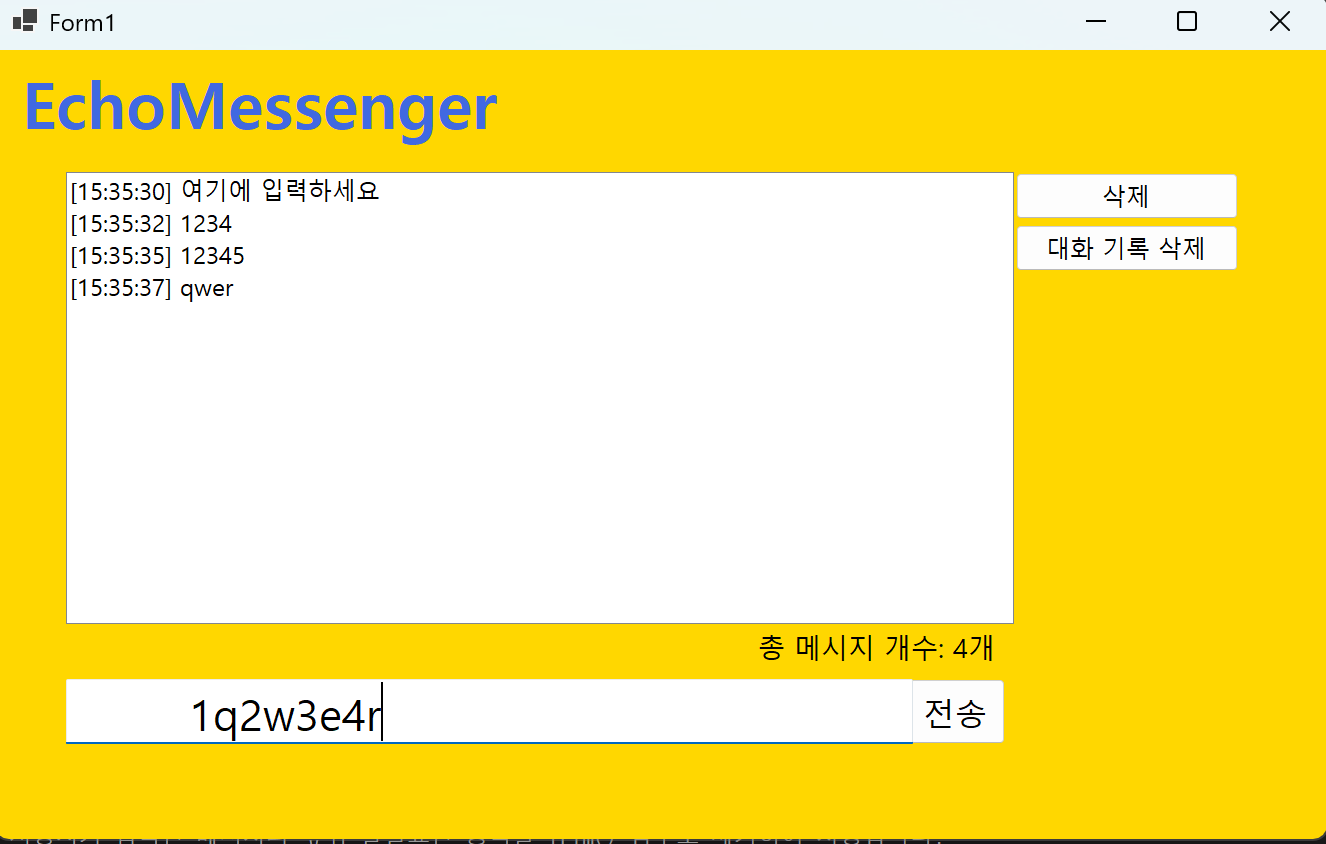
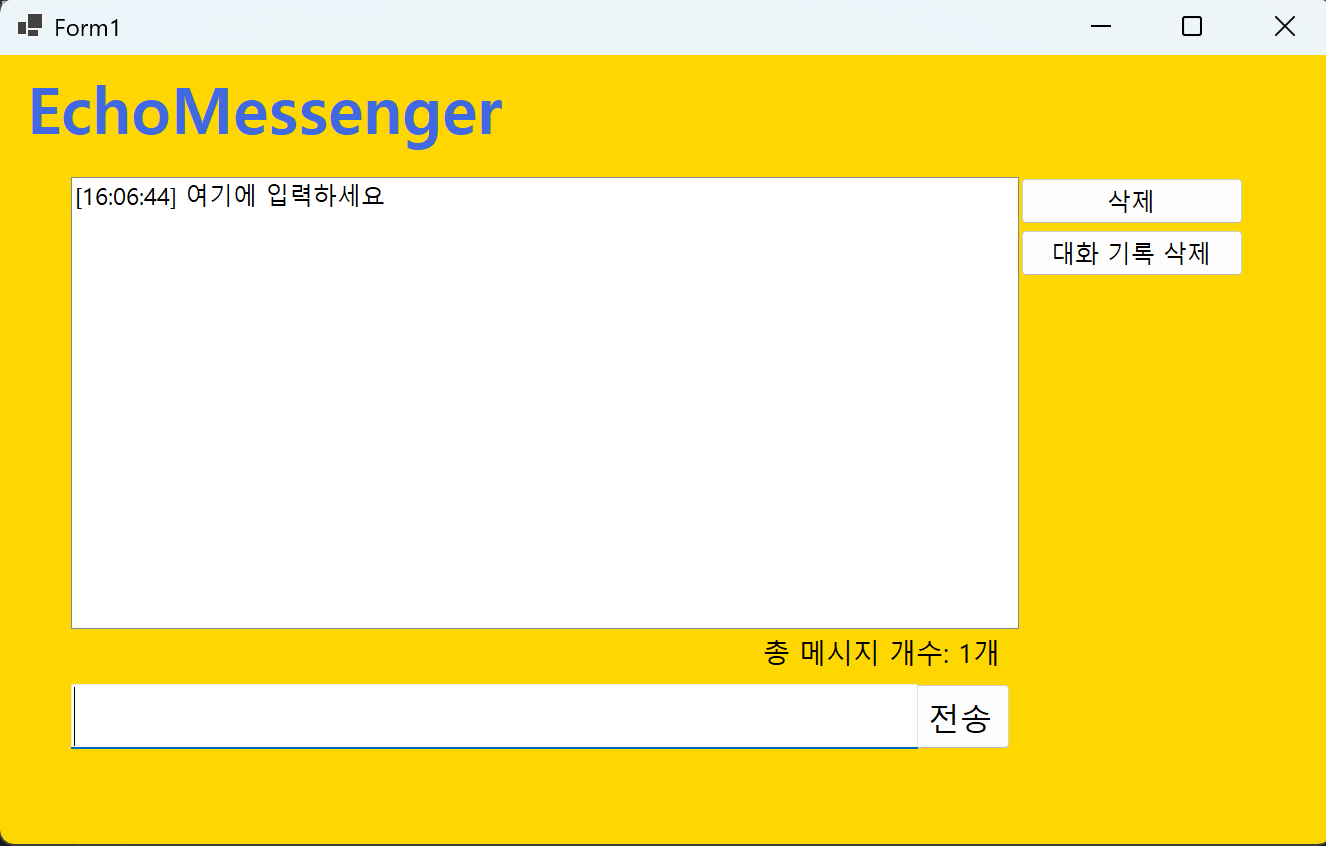
README 과제 4 작성

Changed region(s): [[0.0, 0.0, 1.0, 0.8934], [0.0, 0.9858, 1.0, 1.0]]

diff --git a/README.md b/README.md
@@ -13,7 +13,10 @@
 ## 실행 화면 (과제1)
 -과제 1 코드의 실행 스크린샷 
 
-![과제 1 실행화면](img/EM_1.png)
+![과제 1 실행화면](img/EM_1-1.png)
+![과제 1 실행화면](img/EM_1-2.png)
+![과제 1 실행화면](img/EM_1-3.png)
+![과제 1 실행화면](img/EM_1-4.png)
 
 -과제 내용
  -Label(표시), TextBox(입력), Button(전송), ListBox(대화창)를적절히배치합니다.
@@ -21,9 +24,10 @@
  -추가직후TextBox의내용을비워(Clear) 다음입력을준비합니다.
 
 -구현 기능과 내용 설명
--입력창에메시지입력하고전송버튼을누르면메시지가리스트박스에표시된다.
--계속반복하면메시지가리스트박스에한줄씩계속추가된다.
--추가내용이많아지면리스트박스에스크롤바가자동으로생기고스크롤된다
+-입력창에 메시지를 입력하고 전송버튼을 누르면 메시지가 리스트박스에 표시된다.
+-계속 반복하면 메시지가 리스트 박스에 한줄씩 계속 추가된다.
+-추가 내용이 많아지면 리스트 박스에 스크롤바가 자동으로 생기고 스크롤된다
+-메시지 입력 후 입력창이 자동으로 비워지고 다음 메시지를 입력할 수 있도록 준비된다.
 
 ## 실행 화면 (과제2)
 -과제 2 코드의 실행 스크린샷 
@@ -41,7 +45,7 @@
 -구현 기능과 내용 설명
  -입력 후에 입력창에 마우스 커서가 자동으로 위치하여 다음 메시지를 바로 입력할 수 있다.
  -키보드의 Enter 키를 눌러도 메시지가 전송된다.
- -공백을 입력하면 메시지가 전송되지 않고 입력창이 초기화된다.
+ -공백을 입력하거나 아무것도 입력하지 않고 전송하려고 하면 메시지가 전송되지 않고 입력창이 초기화된다.
 
 
 
@@ -50,6 +54,8 @@
 
 ![과제 3 실행화면](img/EM_3-1.png)
 ![과제 3 실행화면](img/EM_3-2.png)
+![과제 3 실행화면](img/EM_3-3.png)
+![과제 3 실행화면](img/EM_3-4.png)
 
 -과제 내용
  -메시지 앞에 현재시간([14:20:05])을 자동으로 결합하여 리스트에 출력합니다.
@@ -57,15 +63,28 @@
  -사용자가 입력한 메시지의 앞뒤 불필요한 공백을 Trim() 함수로 제거하여 저장합니다.
 
 -구현 기능과 내용 설명
- -메시지 앞에 시간이 결합된다.
- -총 메시지 개수가 출력된다.
- -불필요한 공백이 제거된 채로 입력된다.
+ -메시지 앞에 현재 시간이 자동으로 결합되어 리스트에 출력된다.
+ -총 메시지 개수가 "총 메시지 개수: N개" 형식으로 하단 Label에 실시간으로 업데이트된다.
+ -공백을 포함한 메시지를 입력하면 앞뒤 불필요한 공백이 제거된 메시지가 리스트에 저장되고 출력된다.
 
 ## 실행 화면 (과제4)
 -과제 4 코드의 실행 스크린샷
 
-![과제 4 실행화면](img/.png)
+![과제 4 실행화면](img/EM_4-1.png)
+![과제 4 실행화면](img/EM_4-2.png)
+![과제 4 실행화면](img/EM_4-3.png)
+![과제 4 실행화면](img/EM_4-4.png)
+![과제 4 실행화면](img/EM_4-5.png)
+![과제 4 실행화면](img/EM_4-6.png)
 
--과제 내용
+-과제 내용 
+ -ListBox에서 특정 메시지를 마우스로 클릭하고 '삭제'버튼을 누르면 해당 항목만 목록에서 제거합니다. 
+  (단, 선택하지 않고 삭제 시 발생하는 에러를 예외처리 해야함)
+ -'대화 기록 삭제' 버튼을 클릭하면 리스트의 모든 내용을 한번에 지웁니다.
+ -입력창에 글자수를 50자로 제한하고, 초과 시 사용자에게 경고 메시지를 띄우거나 전송을 차단합니다.
 
 -구현 기능과 내용 설명
+ -ListBox에서 특정 메시지를 마우스로 클릭하고 '삭제'버튼을 누르면 해당 항목만 목록에서 제거된다. 
+ -메시지를 선택하지 않고 삭제 버튼을 누르면 "삭제할 메시지를 먼저 선택해주세요."라는 경고 메시지가 표시된다.
+ -대화 기록 삭제 버튼을 클릭하면 리스트의 모든 내용이 한번에 지워진다.
+ -입력창에 50자가 넘는 메시지 작성 시, "메시지는 최대 50자까지만 입력 가능합니다."라는 경고 메시지가 표시되고 전송이 차단된다.
